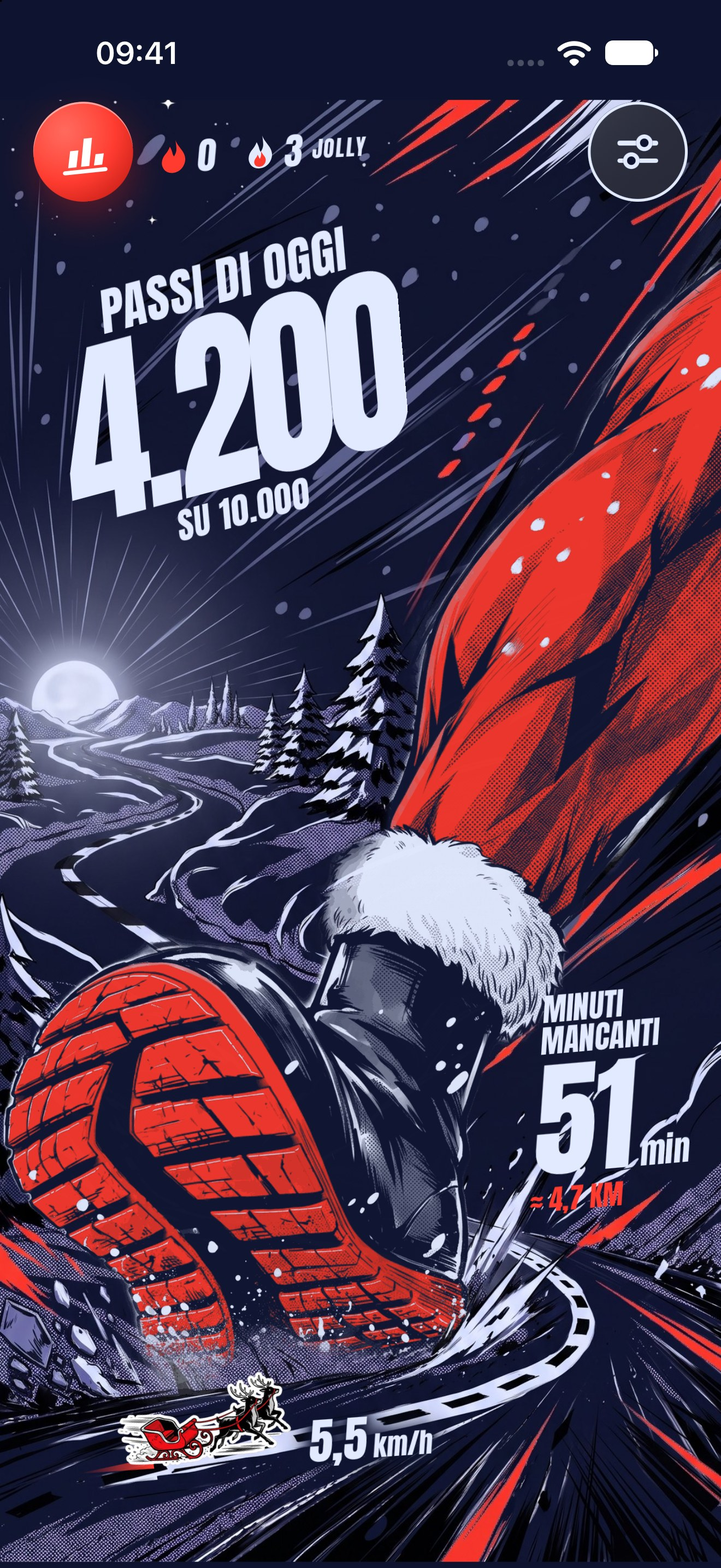
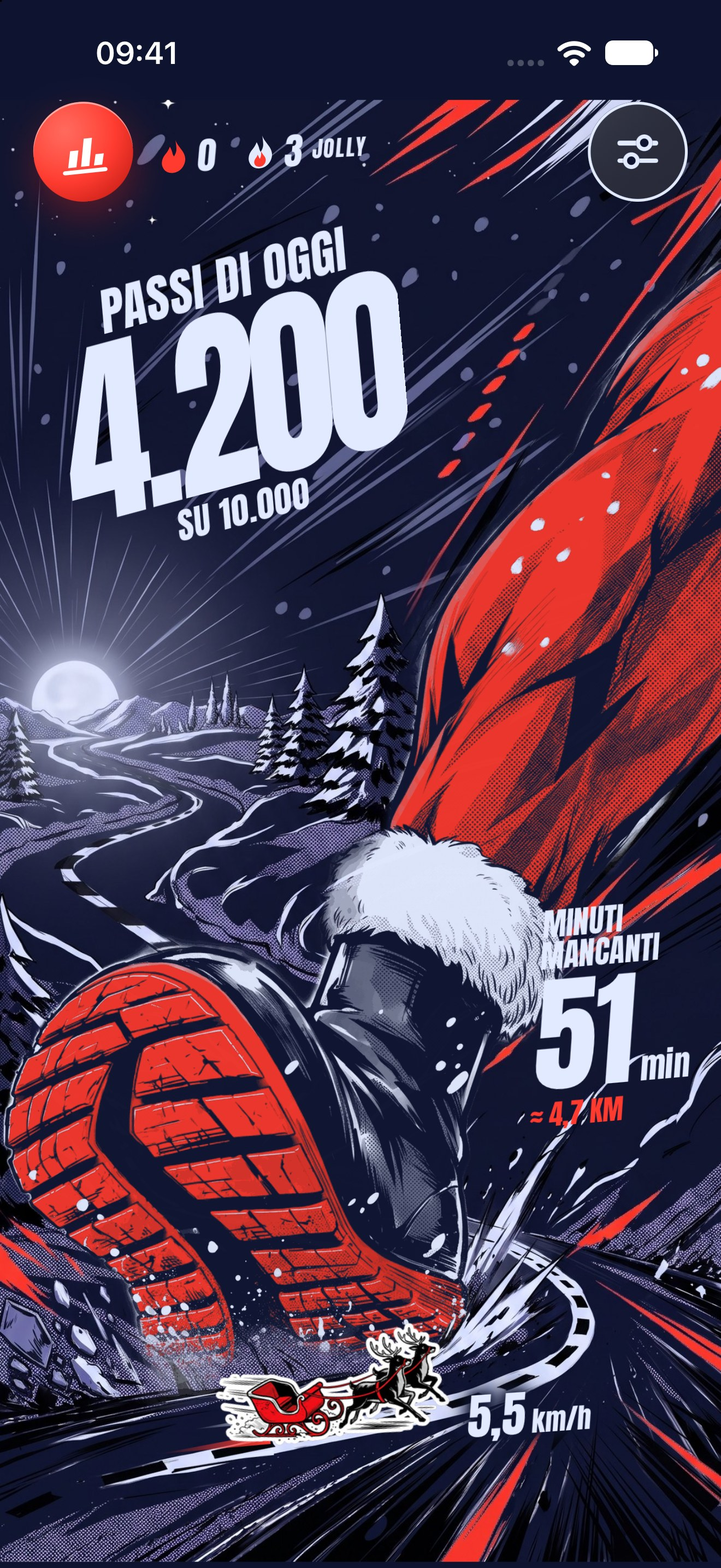
ios 1.2: velocità massima 10 km/h e slitta più grande (D-042, T-016)

Changed region(s): [[0.1553, 0.8379, 0.8386, 0.962], [0.7455, 0.5586, 0.9629, 0.7758]]

diff --git a/ios/Tests/StepTellerCoreTests/DistanceUnitTests.swift b/ios/Tests/StepTellerCoreTests/DistanceUnitTests.swift
@@ -18,24 +18,25 @@ final class DistanceUnitTests: XCTestCase {
 
     func testRanges() {
         XCTAssertEqual(mi.minSpeed, 2)
-        XCTAssertEqual(mi.maxSpeed, 10)
+        XCTAssertEqual(mi.maxSpeed, 6)
         XCTAssertEqual(km.minSpeed, 3)
-        XCTAssertEqual(km.maxSpeed, 16)
+        XCTAssertEqual(km.maxSpeed, 10)
         XCTAssertEqual(DistanceUnit.kmhRange.lowerBound, 3)
-        XCTAssertEqual(DistanceUnit.kmhRange.upperBound, 16.09344, accuracy: 1e-9)
+        XCTAssertEqual(DistanceUnit.kmhRange.upperBound, 10)
     }
 
     func testSnapToHalfMph() {
         XCTAssertEqual(mi.snap(3.2), 3)
         XCTAssertEqual(mi.snap(3.3), 3.5)
         XCTAssertEqual(mi.snap(1), 2)
-        XCTAssertEqual(mi.snap(12), 10)
+        XCTAssertEqual(mi.snap(12), 6)
         // 4 km/h = 2.49 mph → 2.5 mph; 6 km/h = 3.73 mph → 3.5 mph
         XCTAssertEqual(mi.snapKmh(4), 2.5 * 1.609344, accuracy: 1e-9)
         XCTAssertEqual(mi.snapKmh(6), 3.5 * 1.609344, accuracy: 1e-9)
-        XCTAssertEqual(mi.value(fromKm: mi.snapKmh(16)), 10, accuracy: 1e-9)
+        XCTAssertEqual(mi.value(fromKm: mi.snapKmh(16)), 6, accuracy: 1e-9)
+        XCTAssertEqual(mi.value(fromKm: mi.snapKmh(10 * 1.609344)), 6, accuracy: 1e-9)   // a saved 10 mph (D-042)
         // already on a step: unchanged (no float drift)
-        for v in stride(from: 2.0, through: 10.0, by: 0.5) {
+        for v in stride(from: 2.0, through: 6.0, by: 0.5) {
             let kmh = mi.km(fromValue: v)
             XCTAssertEqual(mi.snapKmh(kmh), kmh, accuracy: 1e-9)
         }
@@ -53,13 +54,13 @@ final class DistanceUnitTests: XCTestCase {
 
     func testMilesOnTheRoad() {
         XCTAssertEqual(mi.kmh(forFraction: 0), 2 * 1.609344, accuracy: 1e-9)
-        XCTAssertEqual(mi.kmh(forFraction: 1), 10 * 1.609344, accuracy: 1e-9)
-        XCTAssertEqual(mi.value(fromKm: mi.kmh(forFraction: 0.5)), 6, accuracy: 1e-9)
-        XCTAssertEqual(mi.fraction(forKmh: mi.km(fromValue: 4)), 0.25, accuracy: 1e-12)
+        XCTAssertEqual(mi.kmh(forFraction: 1), 6 * 1.609344, accuracy: 1e-9)
+        XCTAssertEqual(mi.value(fromKm: mi.kmh(forFraction: 0.5)), 4, accuracy: 1e-9)
+        XCTAssertEqual(mi.fraction(forKmh: mi.km(fromValue: 3)), 0.25, accuracy: 1e-12)
         // every step projects onto the road and comes back to the same step
         let track = SpeedTrack.road
         var last = -1.0
-        for v in stride(from: 2.0, through: 10.0, by: 0.5) {
+        for v in stride(from: 2.0, through: 6.0, by: 0.5) {
             let kmh = mi.km(fromValue: v)
             let p = track.point(atFraction: mi.fraction(forKmh: kmh))
             let n = track.nearest(to: p)
@@ -72,7 +73,7 @@ final class DistanceUnitTests: XCTestCase {
 
     func testStepButtons() {
         XCTAssertEqual(mi.value(fromKm: mi.kmh(mi.km(fromValue: 3), steps: 1)), 3.5, accuracy: 1e-9)
-        XCTAssertEqual(mi.value(fromKm: mi.kmh(mi.km(fromValue: 10), steps: 1)), 10, accuracy: 1e-9)
+        XCTAssertEqual(mi.value(fromKm: mi.kmh(mi.km(fromValue: 6), steps: 1)), 6, accuracy: 1e-9)
         XCTAssertEqual(mi.value(fromKm: mi.kmh(mi.km(fromValue: 2), steps: -1)), 2, accuracy: 1e-9)
         XCTAssertEqual(km.kmh(4, steps: 1), 4.5)
         XCTAssertEqual(km.kmh(3, steps: -1), 3)
@@ -80,18 +81,18 @@ final class DistanceUnitTests: XCTestCase {
 
     func testSwitchingUnitKeepsTheSpeed() {
         // km → miles → km comes back to the same 0.5 km/h step for every slider value
-        for v in stride(from: 3.0, through: 16.0, by: 0.5) {
+        for v in stride(from: 3.0, through: 10.0, by: 0.5) {
             let miles = mi.snapKmh(v)
             XCTAssertLessThanOrEqual(abs(miles - v), 0.25 * 1.609344 + 1e-9)
             XCTAssertLessThanOrEqual(abs(km.snapKmh(miles) - v), 0.5 + 1e-9, "v=\(v)")
         }
     }
 
-    func testPlanAtTenMph() {
-        let v = mi.km(fromValue: 10)
+    func testPlanAtSixMph() {
+        let v = mi.km(fromValue: 6)
         let p = Plan(goal: 10_000, steps: 3_465, speed: v)
         XCTAssertEqual(p.speed, v, accuracy: 1e-9)
-        XCTAssertEqual(mi.value(fromKm: p.km), 10 * Double(p.minutes) / 60, accuracy: 1e-9)
+        XCTAssertEqual(mi.value(fromKm: p.km), 6 * Double(p.minutes) / 60, accuracy: 1e-9)
         XCTAssertEqual(Plan(goal: 10_000, steps: 0, speed: 99).speed, DistanceUnit.kmhRange.upperBound)
         XCTAssertEqual(Plan(goal: 10_000, steps: 0, speed: 1).speed, 3)
     }

diff --git a/ios/App/StepsStore.swift b/ios/App/StepsStore.swift
@@ -133,9 +133,15 @@ final class StepsStore {
         // Launch argument `-stepteller.units miles` too (screenshots).
         let preference = defaults.string(forKey: Keys.units).flatMap(UnitPreference.init(rawValue:)) ?? .automatic
         unitPreference = preference
-        // Slider on the road: 3–16 km/h or 2–10 mph in 0.5 steps (an old value like 8.3 becomes 8.5).
+        // Slider on the road: 3–10 km/h or 2–6 mph in 0.5 steps (an old value like 8.3 becomes 8.5; a speed saved
+        // before D-042, up to 16 km/h or 10 mph, comes down to 10 km/h or 6 mph and is saved so, iCloud too).
         let v = defaults.object(forKey: Keys.speed) != nil ? defaults.double(forKey: Keys.speed) : SpeedTrack.defaultSpeed
-        speed = preference.resolved(regionUsesMiles: Units.regionUsesMiles).snapKmh(v)
+        let startUnit = preference.resolved(regionUsesMiles: Units.regionUsesMiles)
+        let startSpeed = startUnit.snapKmh(v)
+        speed = startSpeed
+        if let saved = Self.persistentSpeed(defaults), saved > startUnit.km(fromValue: startUnit.maxSpeed) + 1e-9 {
+            defaults.set(startSpeed, forKey: Keys.speed)
+        }
         reminderEnabled = defaults.object(forKey: Keys.reminderOn) != nil ? defaults.bool(forKey: Keys.reminderOn) : true
         reminderMinutes = defaults.object(forKey: Keys.reminderTime) != nil ? defaults.integer(forKey: Keys.reminderTime) : 20 * 60 + 30
         eventNotificationsOn = defaults.object(forKey: Keys.eventsOn) != nil ? defaults.bool(forKey: Keys.eventsOn) : true
@@ -172,6 +178,12 @@ final class StepsStore {
             SharedStore.eventLedger = EventLedger(since: DayKey.of(Date(), minusDays: back, calendar: controller.calendar))
         }
         #endif
+    }
+
+    /// The speed saved on this phone, not a launch argument (`-stepteller.speed` in the screenshots).
+    private static func persistentSpeed(_ defaults: UserDefaults) -> Double? {
+        guard let id = Bundle.main.bundleIdentifier else { return nil }
+        return defaults.persistentDomain(forName: id)?[Keys.speed] as? Double
     }
 
     // MARK: derived

diff --git a/ios/Tests/StepTellerCoreTests/HandoffCoreTests.swift b/ios/Tests/StepTellerCoreTests/HandoffCoreTests.swift
@@ -15,17 +15,18 @@ final class SpeedTrackTests: XCTestCase {
 
     func testSpeedMapping() {
         XCTAssertEqual(SpeedTrack.speed(forFraction: 0), 3)
-        XCTAssertEqual(SpeedTrack.speed(forFraction: 1), 16)
-        XCTAssertEqual(SpeedTrack.speed(forFraction: 0.5), 9.5)
-        XCTAssertEqual(SpeedTrack.fraction(forSpeed: 4), 1.0 / 13, accuracy: 1e-9)
+        XCTAssertEqual(SpeedTrack.speed(forFraction: 1), 10)
+        XCTAssertEqual(SpeedTrack.speed(forFraction: 0.5), 6.5)
+        XCTAssertEqual(SpeedTrack.fraction(forSpeed: 4), 1.0 / 7, accuracy: 1e-9)
         XCTAssertEqual(SpeedTrack.snap(8.3), 8.5)
         XCTAssertEqual(SpeedTrack.snap(6.2), 6.0)
-        XCTAssertEqual(SpeedTrack.snap(20), 16)
+        XCTAssertEqual(SpeedTrack.snap(20), 10)
+        XCTAssertEqual(SpeedTrack.snap(16), 10)          // speeds saved before D-042
         XCTAssertEqual(SpeedTrack.snap(1), 3)
     }
 
     func testProjectionRoundTrip() {
-        for v in stride(from: 3.0, through: 16.0, by: 0.5) {
+        for v in stride(from: 3.0, through: 10.0, by: 0.5) {
             let p = track.point(atFraction: SpeedTrack.fraction(forSpeed: v))
             let n = track.nearest(to: p)
             XCTAssertLessThan(n.distance, 0.5)
@@ -44,16 +45,18 @@ final class SpeedTrackTests: XCTestCase {
 
     func testPositionGrowsWithSpeedAlongTheArc() {
         var last = -1.0
-        for v in stride(from: 3.0, through: 16.0, by: 0.5) {
+        for v in stride(from: 3.0, through: 10.0, by: 0.5) {
             let f = track.nearest(to: track.point(atFraction: SpeedTrack.fraction(forSpeed: v))).fraction
             XCTAssertGreaterThan(f, last)
             last = f
         }
     }
 
-    func testPlanAcceptsSixteen() {
+    func testPlanCapsAtTen() {
+        // the slider stops at 10 km/h (D-042): an older 16 counts as 10
         let p = Plan(goal: 10_000, steps: 3_465, speed: 16)
-        XCTAssertEqual(p.speed, 16)
+        XCTAssertEqual(p.speed, 10)
+        XCTAssertEqual(p.minutes, Plan(goal: 10_000, steps: 3_465, speed: 10).minutes)
         XCTAssertGreaterThan(p.minutes, 0)
     }
 }

diff --git a/ios/Sources/StepTellerCore/DistanceUnit.swift b/ios/Sources/StepTellerCore/DistanceUnit.swift
@@ -8,14 +8,14 @@ public enum DistanceUnit: String, Sendable, CaseIterable {
 
     public static let kmPerMile = 1.609344
 
-    /// Slider range and step in this unit: 3–16 km/h or 2–10 mph, both in 0.5 steps.
+    /// Slider range and step in this unit: 3–10 km/h or 2–6 mph, both in 0.5 steps (D-042).
     public var minSpeed: Double { self == .miles ? 2 : SpeedTrack.minSpeed }
-    public var maxSpeed: Double { self == .miles ? 10 : SpeedTrack.maxSpeed }
+    public var maxSpeed: Double { self == .miles ? 6 : SpeedTrack.maxSpeed }
     public var step: Double { SpeedTrack.step }
 
-    /// Speeds (km/h) the slider can produce in any unit: 3 km/h … 10 mph (16.09 km/h).
+    /// Speeds (km/h) the slider can produce in any unit: 3 … 10 km/h (6 mph = 9.66 km/h stays inside).
     public static let kmhRange: ClosedRange<Double> =
-        min(SpeedTrack.minSpeed, 2 * kmPerMile)...max(SpeedTrack.maxSpeed, 10 * kmPerMile)
+        min(SpeedTrack.minSpeed, 2 * kmPerMile)...max(SpeedTrack.maxSpeed, 6 * kmPerMile)
 
     /// Kilometers (or km/h) → this unit.
     public func value(fromKm km: Double) -> Double { self == .miles ? km / Self.kmPerMile : km }

diff --git a/ios/Tests/StepTellerCoreTests/JollyGiftTests.swift b/ios/Tests/StepTellerCoreTests/JollyGiftTests.swift
@@ -209,10 +209,10 @@ final class SleighPoseTests: XCTestCase {
 
     func testOnTheRoad() {
         XCTAssertFalse(pose(kmh: 3).mirrored)
-        XCTAssertFalse(pose(kmh: 8).mirrored)
-        XCTAssertFalse(pose(kmh: 13).mirrored)
-        XCTAssertTrue(pose(kmh: 14).mirrored)                    // from ≈ 13.6 km/h, the last curve
-        XCTAssertTrue(pose(kmh: 16).mirrored)
-        for v in stride(from: 3.0, through: 16, by: 0.5) { XCTAssertLessThanOrEqual(abs(pose(kmh: v).rotation), 25) }
+        XCTAssertFalse(pose(kmh: 6).mirrored)
+        XCTAssertFalse(pose(kmh: 8.5).mirrored)
+        XCTAssertTrue(pose(kmh: 9).mirrored)                     // the last curve, from ≈ 8.7 km/h (3–10 km/h road)
+        XCTAssertTrue(pose(kmh: 10).mirrored)
+        for v in stride(from: 3.0, through: 10, by: 0.5) { XCTAssertLessThanOrEqual(abs(pose(kmh: v).rotation), 25) }
     }
 }

diff --git a/ios/App/Home/RoadSpeedSlider.swift b/ios/App/Home/RoadSpeedSlider.swift
@@ -92,8 +92,10 @@ struct RoadSpeedSlider: View {
 
     /// Frame of the sleigh and its attach point (under the runners), which sits on the road where the knob's
     /// center would be.
-    private static let sleighSize = CGSize(width: 92, height: 42.4)
-    private static let sleighAnchor = CGPoint(x: 27.6, y: 33.9)
+    /// 92 × 42.4 pt in the specification, 35% bigger after William saw it (D-042).
+    private static let sleighScale: CGFloat = 1.35
+    private static let sleighSize = CGSize(width: 92 * sleighScale, height: 42.4 * sleighScale)
+    private static let sleighAnchor = CGPoint(x: 27.6 * sleighScale, y: 33.9 * sleighScale)
     private static let sleighLabelGap: CGFloat = 8
 
     @ViewBuilder

diff --git a/ios/App/Home/HomeView.swift b/ios/App/Home/HomeView.swift
@@ -46,7 +46,7 @@ struct HomeView: View {
                     minutesBlock
                         .manga(rotate: -5, skew: -9)
                         .onGeometryChange(for: CGFloat.self) { $0.size.width } action: { minutesWidth = $0 }
-                        .at(min(290, Manga.frameWidth - 8 - minutesWidth), Manga.artTop + 480)
+                        .at(min(290, Manga.frameWidth - 8 - minutesWidth), Manga.artTop + 480 - (look?.slider.minutesLift ?? 0))
                 }
                 if !store.plan.isDone {
                     RoadSpeedSlider(speed: Binding(get: { store.speed }, set: { store.speed = $0 }), unit: store.unit,

diff --git a/ios/Sources/StepTellerCore/Plan.swift b/ios/Sources/StepTellerCore/Plan.swift
@@ -21,7 +21,7 @@ public struct Plan: Sendable, Equatable {
     public static let glanceSpeed = 4.0
 
     public init(goal: Int, steps: Int, speed: Double, model: CadenceModel = .standard) {
-        // km/h; the slider in miles reaches 10 mph (16.09 km/h), just past the 16 km/h of the road in km
+        // km/h, inside the slider's range in any unit (3–10 km/h; an older saved 16 counts as 10)
         let v = min(DistanceUnit.kmhRange.upperBound, max(DistanceUnit.kmhRange.lowerBound, speed))
         let cad = model.cadence(at: v)
         let gap = max(0, goal - steps)

diff --git a/ios/Sources/StepTellerCore/CadenceModel.swift b/ios/Sources/StepTellerCore/CadenceModel.swift
@@ -34,7 +34,7 @@ public struct CadenceModel: Sendable {
     /// From this speed (inclusive) you run.
     public static let runFrom = 7.1
     /// Speeds accepted by the automatic calibration (workouts outside are ignored).
-    /// The app's slider goes further (up to `SpeedTrack.maxSpeed`): the curve is extrapolated.
+    /// Wider than the app's slider (3–10 km/h, `SpeedTrack.maxSpeed`): faster workouts still shape the running curve.
     public static let minSpeed = 3.0
     public static let maxSpeed = 12.0
 

diff --git a/ios/App/Design/MangaTokens.swift b/ios/App/Design/MangaTokens.swift
@@ -94,6 +94,13 @@ struct SeasonLook {
         case knob
         /// A sticker (imageset name) that follows the road (§3).
         case sleigh(String)
+
+        /// How much higher the «minutes left» block sits, so that the sleigh at the end of the road (up to 10 km/h,
+        /// D-042) never covers the minutes or the km. 0 with the knob: the normal Home.
+        var minutesLift: CGFloat {
+            if case .sleigh = self { return 46 }
+            return 0
+        }
     }
 
     let season: Season

diff --git a/ios/Sources/StepTellerCore/SpeedTrack.swift b/ios/Sources/StepTellerCore/SpeedTrack.swift
@@ -11,7 +11,8 @@ public struct SpeedTrack: Sendable {
     }
 
     public static let minSpeed = 3.0
-    public static let maxSpeed = 16.0
+    /// 10 km/h, not further (D-042, William, 18/11/2026; it was 16).
+    public static let maxSpeed = 10.0
     public static let step = 0.5
     public static let defaultSpeed = 4.0
 

diff --git a/ios/tasks/T-016-natale-rifatto-codice.md b/ios/tasks/T-016-natale-rifatto-codice.md
@@ -98,3 +98,22 @@ William.
   - aspetto dell'icona chiara, scura e tinta;
   - sincronizzazione iCloud dopo una reinstallazione;
   - tocco e trascinamento della slitta.
+
+**18/11/2026, Developer, punti 9 e 10 (D-042)**, stessa PR #43:
+- **Slitta +35%** (`sleighScale` in `RoadSpeedSlider`), area di tocco invariata (20 pt dalla strada).
+  - Con la slitta il blocco «minuti mancanti» sale di 46 pt (`SeasonLook.Slider.minutesLift`, 0 con il pomello: tornare al pomello resta una riga). Così a 10 km/h la slitta non copre «MINUTI MANCANTI», i minuti e i km.
+  - L'asset @3x è di 276 px, a 124 pt servirebbero 372 px: un poco ingrandito, da rifare più grande se si vede sul telefono.
+- **Velocità massima 10 km/h / 6 mph**:
+  - nel nucleo, `SpeedTrack.maxSpeed` 10, `DistanceUnit` 2–6 mph, `kmhRange` 3–10;
+  - `Plan` limita a 10;
+  - test aggiornati: 112 verdi.
+  - Una velocità salvata più alta scende a 10:
+    - sul telefono si riscrive all'avvio;
+    - da iCloud e dal Backup passa da `speed` che arrotonda e salva.
+  - `CadenceModel` e `AutoCalibration` (3–12 km/h) restano: gli allenamenti più veloci servono alla curva della corsa.
+  - La slitta ora si specchia da ≈ 8,7 km/h.
+- **Screenshot nuovi** in `tasks/T-016/`: SE e 17 Pro Max, giorno e notte, a 5,5 e 10 km/h; in più 3 km/h e Home normale a 10 km/h.
+- **Da guardare:**
+  - a 3 km/h la slitta più grande esce di ≈ 15 pt dal bordo sinistro (entra dalla strada);
+  - di notte su SE «MINUTI» sfiora la pelliccia dello stivale.
+
